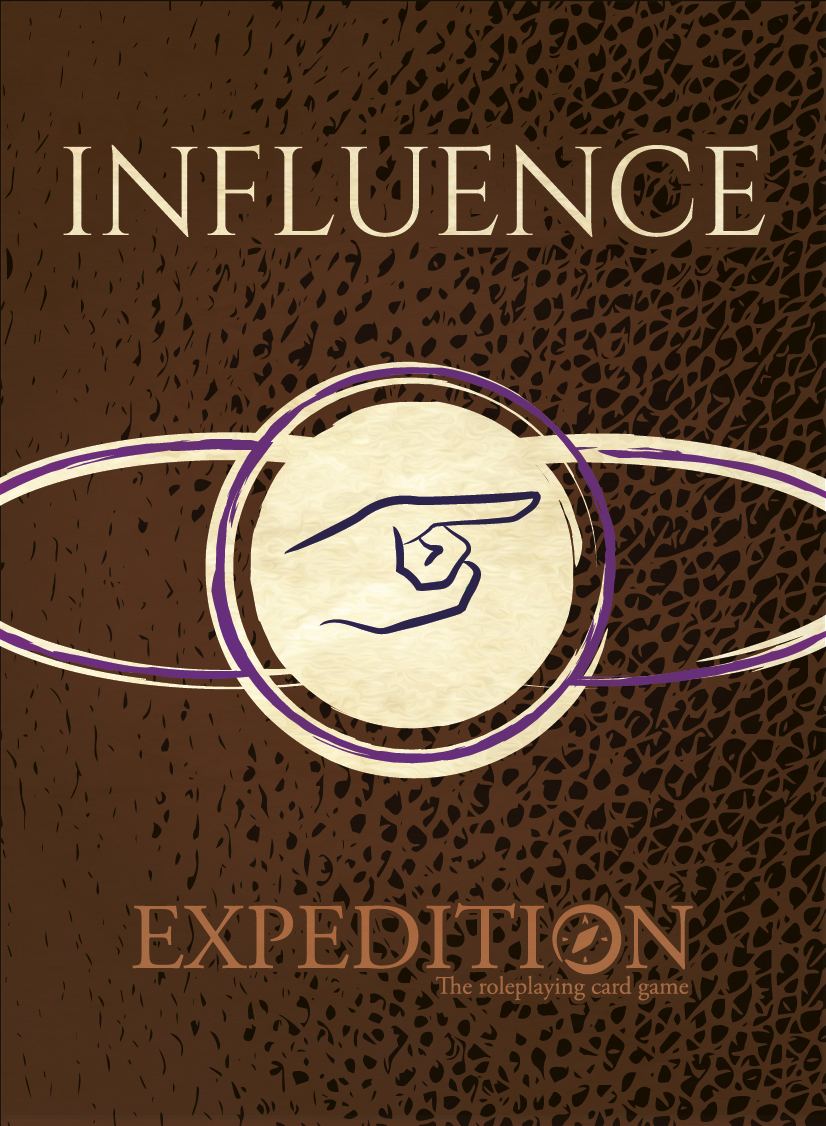
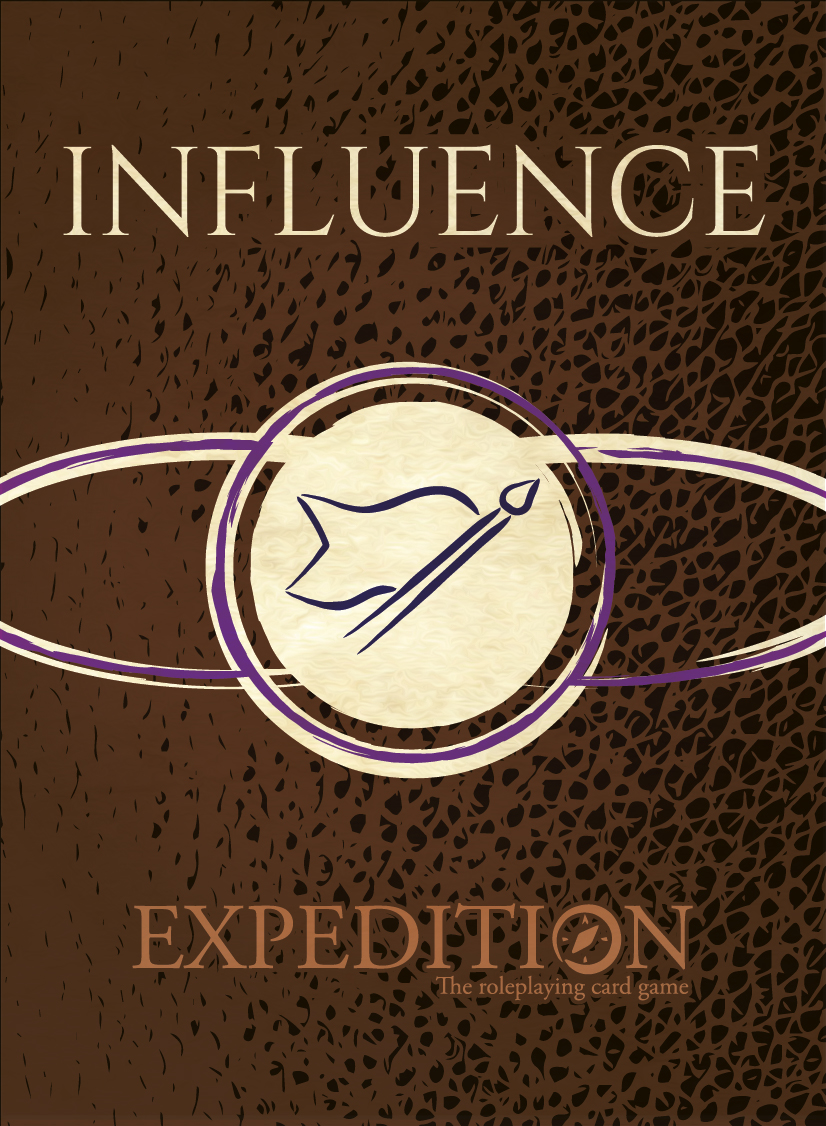
update person, influence backs

Changed region(s): [[0.3329, 0.4041, 0.6659, 0.5906]]

diff --git a/README.md b/README.md
@@ -9,6 +9,7 @@ TODO references:
 - programs used
   - any setup steps?
   - export settings
+    - card backs: export as JPG (check "Use Artboard"), 300 DPI, RGB, include ICC profile. If horizontal, rotate resulting JPG
 - colors
   - abilities
   - encounters
